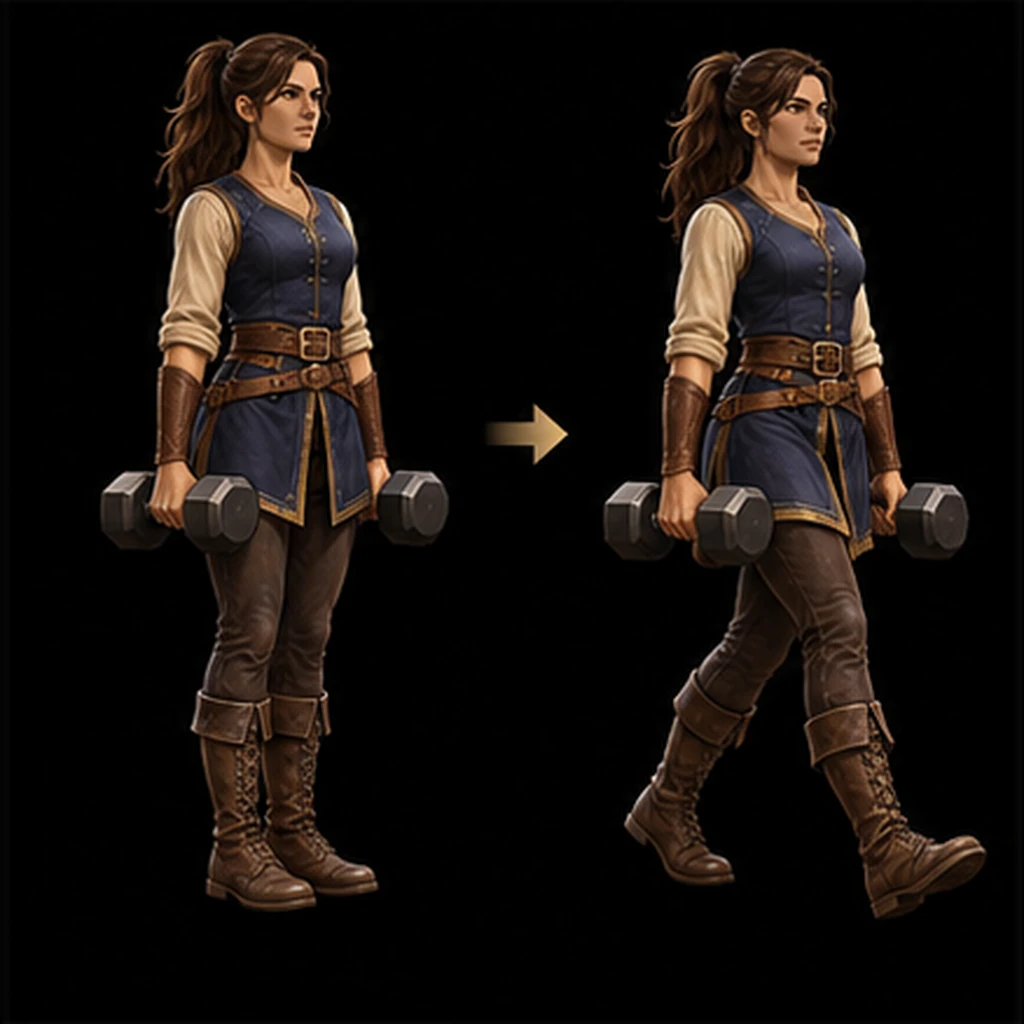
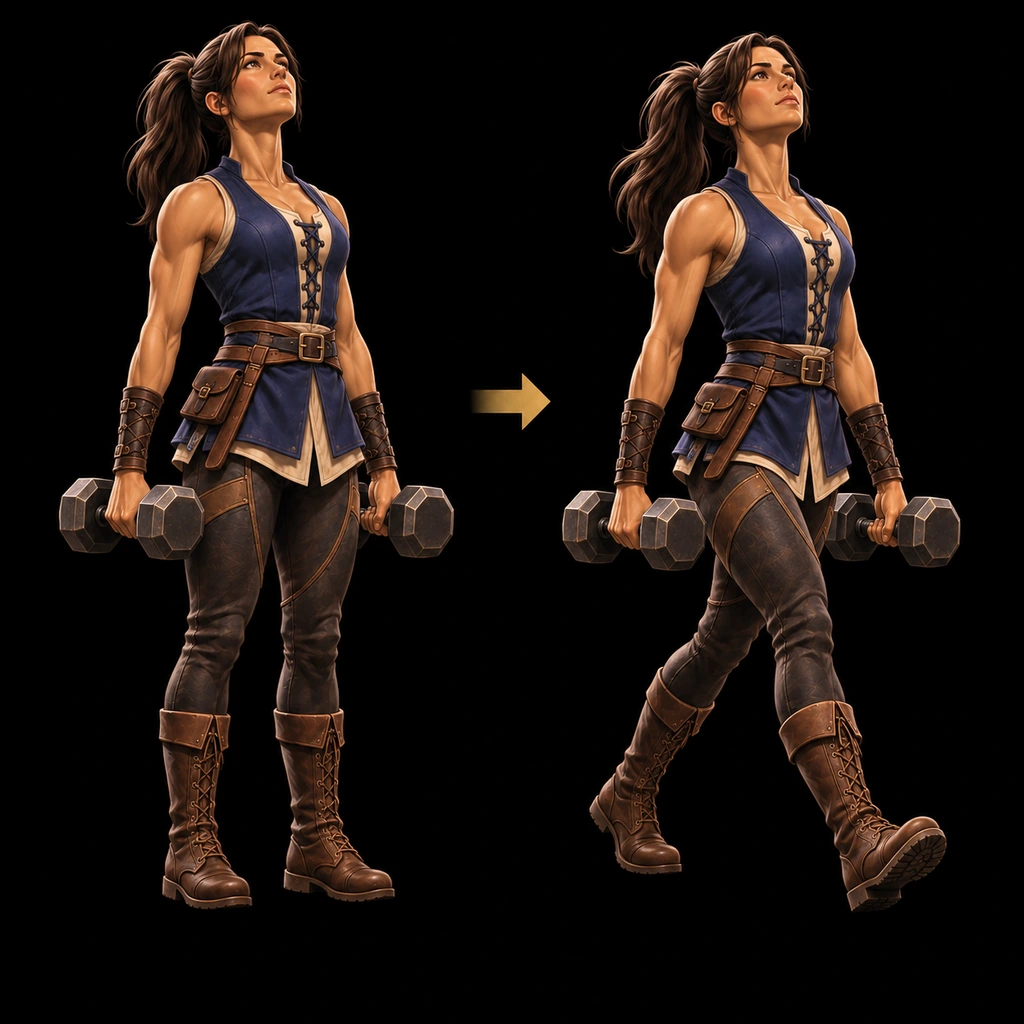
feat(forge): intégrer les illustrations individuelles et vérifier le parcours
Remplace les huit WebP par les exports des PNG natifs et corrige l’appui fixe de traction. Ajoute huit tests Forge et le manifeste des vingt images. Moteur et données de jeu inchangés ; 19 tests passent. Test navigateur/PWA encore limité par l’environnement.

Changed region(s): [[0.5312, 0.0312, 0.9688, 0.9062], [0.0312, 0.0, 0.4688, 0.9062], [0.4375, 0.375, 0.5625, 0.4688]]

diff --git a/docs/FORGE_INTEGRATION_BROUILLON.md b/docs/FORGE_INTEGRATION_BROUILLON.md
@@ -1,26 +1,32 @@
-# Les Épreuves de la Forge · intégration de données (brouillon)
+# Les Épreuves de la Forge · intégration (brouillon)
 
-## État actuel · 20 WebP déposés et contrôlés
+## État actuel · huit illustrations individuelles intégrées
 
-Le lot déposé sur la branche `feature/forge-exercices-bibliotheque-20261116` au commit `0334f5615c4f65f3512c2170205ac59e590c179a` contient les **8 exercices, 8 boss et 4 badges attendus**.
+La branche `feature/forge-exercices-bibliotheque-20261116` contient les **24 séances, 8 boss, 4 badges et 8 fiches d’exercices** du parcours. La V6.6.3 et le pré-cache des deux modules Forge sont préparés.
 
-- Les 20 chemins sont résolus dans les deux modules Forge ; aucun nouveau visuel ne manque au raccordement technique.
-- Chaque fichier a été lu en base64 puis contrôlé : signature RIFF/WebP, taille de fichier, dimensions **1024 × 1024** et SHA-1 Git recalculé identique au blob annoncé par GitHub.
-- Volume total du lot : **2 586 776 octets**.
-- Les 18 scripts de `index.html` figurent au pré-cache de `service-worker.js`. Les versions de la configuration, des ressources HTML et du service worker restent cohérentes en **6.6.3**.
-- Les données des programmes, les répétitions, les règles générales d'XP, les clés de sauvegarde et le moteur ne sont pas modifiés par ce dépôt d'images.
+- Sept WebP ont été remplacés par des exports des PNG individuels de 1254 × 1254 pixels, sans agrandissement de planche, en WebP 1024 × 1024, qualité 94 et filtre Lanczos.
+- La huitième illustration, la traction assistée, a été corrigée à partir du dernier PNG : les pieds restent sur le même appui fixe dans les deux positions, en cohérence avec la fiche existante.
+- L’association des fichiers a été contrôlée visuellement : `image-gen-7(20261116-220534).png` représente la fente arrière, tandis que `image-gen-8(20261116-220538).png` est la source de la correction de traction. Ne pas inverser ces deux visuels.
+- Les huit PNG initiaux et le PNG de traction corrigée sont conservés dans l’archive complète remise en conversation. Aucun original PNG n’a été supprimé.
+- Les 8 boss et 4 badges déjà déposés sont conservés à l’identique.
+- Les données des programmes, les répétitions, les XP, les clés de sauvegarde et le moteur restent inchangés pendant cette reprise.
+- `docs/FORGE_IMAGES_MANIFEST.json` recense les 20 chemins, dimensions, tailles et SHA-256 ; les huit nouvelles illustrations y sont reliées à leurs sources.
 
-### Réserves graphiques
+### Vérifications réellement exécutées
 
-Les huit images d'exercices déposées ont été examinées visuellement. Elles appartiennent au lot WebP antérieur aux huit PNG individuels les plus récents : sept sont issus de la planche agrandie. **La dimension de diffusion 1024 × 1024 ne constitue pas une résolution source native 1024 × 1024.**
+- `node --check` : les 19 scripts applicatifs passent ; le nouveau fichier de tests passe aussi.
+- `node --test tests/*.test.cjs` : **19 tests réussis, 0 échec**, dont 8 tests Forge et 11 tests de régression poids/favoris/sauvegarde.
+- Conservation des programmes, exercices, badges, règles générales d’XP et clés existants ; rechargement des modules sans doublon.
+- Huit semaines de trois séances, un nouveau mouvement chaque semaine, références d’exercices résolues et 20 images WebP présentes.
+- Déverrouillage des boss après trois séances distinctes, progression jusqu’à la fin de S8, absence de déverrouillage indu par une séance répétée ou un autre programme.
+- Seuils des quatre badges vérifiés avec le moteur existant ; reprise d’une séance et de l’exercice coché après rechargement de la sauvegarde simulée.
+- HTML des cartes de bibliothèque et de séance vérifié : les huit illustrations sont référencées correctement.
 
-L'illustration `exercice_femme_forge_assisted_pullup.webp` présente le support des pieds à deux hauteurs différentes entre le départ et l'arrivée. Cette ambiguïté pédagogique reste à corriger ; ne pas présenter ce dessin comme validé.
+### Limite de validation
 
-Les huit PNG individuels `image-gen-1(20261116-220516).png` à `image-gen-8(20261116-220538).png` ne sont pas présents sur cette branche, notamment pas dans `assets/exercices/forge-sources/`. Leur contrôle, leur association aux exercices et leur conversion restent à faire pour la série définitive.
+**Le test dans un vrai navigateur et le test PWA réel restent à effectuer.** Chromium local ne peut pas démarrer dans cet environnement et le navigateur distant refuse l’ouverture des fichiers locaux. Les tests Node et les contrôles de fichiers ne remplacent pas cette vérification.
 
-### Validation restante
-
-Les contrôles de progression et de cache simulé déjà décrits ci-dessous restent applicables, les sources de jeu étant inchangées. Ils ne remplacent pas `node --check` ni un vrai test navigateur/PWA, qui ne sont toujours pas disponibles dans cette session. **Conserver la PR en brouillon, sans fusion ni publication.**
+La PR reste en brouillon, sans fusion ni publication, jusqu’à validation explicite.
 
 Cette branche ajoute sans changement du moteur Fitness RPG :
 
@@ -84,13 +90,10 @@ Les noms des boss/badges reprennent les fichiers de l'archive graphique. Les hui
 - 24 séances, 8 boss, 4 badges : OK.
 - Toutes les références d'exercices du programme et des boss sont résolues : OK.
 - Boss semaine 1 verrouillé avant les séances, déverrouillé après 3 séances, puis accès à la semaine 2 après victoire : OK.
-- **Test navigateur complet non effectué**. Les 20 WebP sont maintenant présents ; la série graphique définitive reste à finaliser.
+- **Test navigateur complet non effectué**. Les huit illustrations individuelles sont désormais intégrées ; la validation dans le navigateur reste à faire.
 
 ## Avant publication
 
-1. Finaliser la série graphique à partir des huit PNG individuels, sans supprimer les originaux.
-2. Vérifier la qualité et l'exactitude anatomique des mouvements avant de les publier.
-3. Tester dans un vrai navigateur l'affichage des fiches, des boss, des badges et la progression.
-4. Vérifier la V6.6.3 et le pré-cache PWA déjà préparés au moment du futur déploiement, sans modifier les règles du jeu.
-5. Conserver la PR en brouillon jusqu'à validation explicite.
-
+1. Vérifier dans un navigateur l’affichage complet des illustrations, les fiches, les boss et les badges, sur mobile et ordinateur.
+2. Vérifier le cycle de mise à jour PWA 6.6.3 et la reprise d’une séance avec le stockage du navigateur.
+3. Obtenir la validation explicite avant toute fusion dans `main`.
